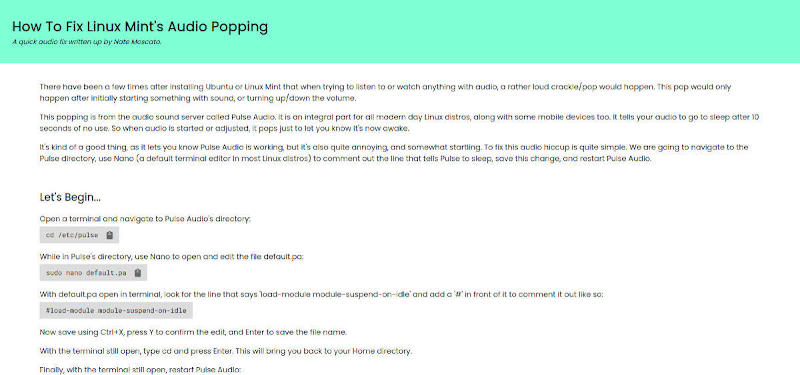
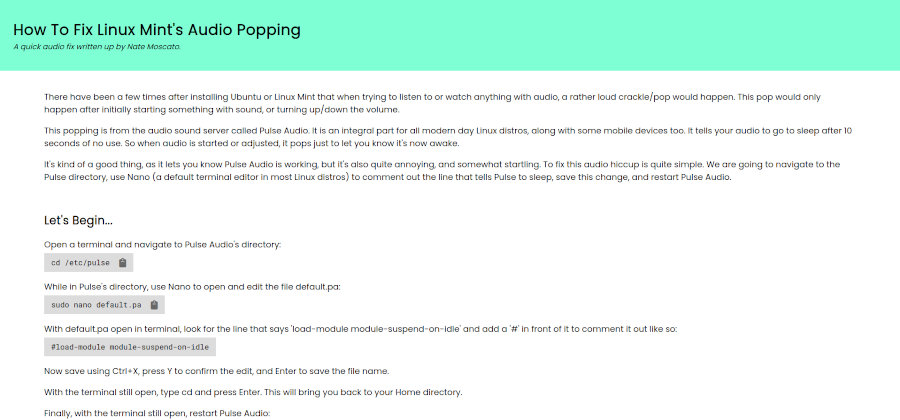
redid all project photos for desktop and mobile, altered glider too

diff --git a/index.html b/index.html
@@ -232,9 +232,9 @@
               </div>
               <div class="project-photo">
                 <img src="img/projects/yso.webp" alt="Your Social Offers Prototype" title="Your Social Offers"
-                  class="desktop-project-photo" width="750" height="352" />
-                <img src="img/projects/yso-mobile.jpg" alt="Your Social Offers Prototype" title="Your Social Offers"
-                  class="mobile-project-photo" width="340" height="450" />
+                  class="desktop-project-photo" width="900" height="420" />
+                <img src="img/projects/yso-mobile.webp" alt="Your Social Offers Prototype" title="Your Social Offers"
+                  class="mobile-project-photo" width="300" height="400" />
               </div>
             </a>
             <div class="project-photo-title yellow-text">
@@ -260,10 +260,10 @@
                 <i class="fa-solid fa-arrow-up-right-from-square" aria-hidden="true"></i>
               </div>
               <div class="project-photo">
-                <img src="img/projects/iss-location.jpg" alt="International Space Station Location" title="ISS Location"
-                  class="desktop-project-photo" width="800" height="375" />
+                <img src="img/projects/iss-location.webp" alt="International Space Station Location"
+                  title="ISS Location" class="desktop-project-photo" width="900" height="420" />
                 <img src="img/projects/iss-location-mobile.jpg" alt="International Space Station Location"
-                  title="ISS Location" class="mobile-project-photo" width="340" height="450" />
+                  title="ISS Location" class="mobile-project-photo" width="300" height="400" />
               </div>
             </a>
             <div class="project-photo-title yellow-text">ISS Location</div>
@@ -287,10 +287,10 @@
                 <i class="fa-solid fa-arrow-up-right-from-square" aria-hidden="true"></i>
               </div>
               <div class="project-photo">
-                <img src="img/projects/linux-audio-pop.jpg" alt="Linux Mint Audio Issue Walkthrough"
-                  title="Linux Audio Pop" class="desktop-project-photo" width="800" height="375" />
-                <img src="img/projects/linux-audio-pop-mobile.jpg" alt="Linux Mint Audio Issue Walkthrough"
-                  title="Linux Audio Pop" class="mobile-project-photo" width="340" height="450" />
+                <img src="img/projects/linux-audio-pop.webp" alt="Linux Mint Audio Issue Walkthrough"
+                  title="Linux Audio Pop" class="desktop-project-photo" width="900" height="420" />
+                <img src="img/projects/linux-audio-pop-mobile.webp" alt="Linux Mint Audio Issue Walkthrough"
+                  title="Linux Audio Pop" class="mobile-project-photo" width="300" height="400" />
               </div>
             </a>
             <div class="project-photo-title yellow-text">Linux Audio Pop</div>
@@ -333,10 +333,10 @@
                 <i class="fa-solid fa-arrow-up-right-from-square" aria-hidden="true"></i>
               </div>
               <div class="project-photo">
-                <img src="img/projects/shine.jpg" alt="Shine 'n Shimmer Project" title="Shine 'n Shimmer"
-                  class="desktop-project-photo" width="800" height="375" />
-                <img src="img/projects/shine-mobile.jpg" alt="Shine 'n Shimmer Project" title="Shine 'n Shimmer"
-                  class="mobile-project-photo" width="340" height="450" />
+                <img src="img/projects/shine.webp" alt="Shine 'n Shimmer Project" title="Shine 'n Shimmer"
+                  class="desktop-project-photo" width="900" height="420" />
+                <img src="img/projects/shine-mobile.webp" alt="Shine 'n Shimmer Project" title="Shine 'n Shimmer"
+                  class="mobile-project-photo" width="300" height="400" />
               </div>
             </a>
             <div class="project-photo-title yellow-text">
@@ -356,10 +356,10 @@
                 <i class="fa-solid fa-arrow-up-right-from-square" aria-hidden="true"></i>
               </div>
               <div class="project-photo">
-                <img src="img/projects/breathe.jpg" alt="Breathe/Meditation Project" title="Just Breathe"
-                  class="desktop-project-photo" width="800" height="375" />
-                <img src="img/projects/breathe-mobile.jpg" alt="Breathe/Meditation Project" title="Just Breathe"
-                  class="mobile-project-photo" width="340" height="450" />
+                <img src="img/projects/breathe.webp" alt="Breathe/Meditation Project" title="Just Breathe"
+                  class="desktop-project-photo" width="900" height="420" />
+                <img src="img/projects/breathe-mobile.webp" alt="Breathe/Meditation Project" title="Just Breathe"
+                  class="mobile-project-photo" width="300" height="400" />
               </div>
             </a>
             <div class="project-photo-title yellow-text">Just Breathe</div>
@@ -381,10 +381,10 @@
                 <i class="fa-solid fa-arrow-up-right-from-square" aria-hidden="true"></i>
               </div>
               <div class="project-photo">
-                <img src="img/projects/summit.jpg" alt="Summit Massage Project" title="Summit Massage"
-                  class="desktop-project-photo" width="800" height="375" />
-                <img src="img/projects/summit-mobile.jpg" alt="Summit Massage Project" title="Summit Massage"
-                  class="mobile-project-photo" width="340" height="450" />
+                <img src="img/projects/summit.webp" alt="Summit Massage Project" title="Summit Massage"
+                  class="desktop-project-photo" width="900" height="420" />
+                <img src="img/projects/summit-mobile.webp" alt="Summit Massage Project" title="Summit Massage"
+                  class="mobile-project-photo" width="300" height="400" />
               </div>
             </a>
             <div class="project-photo-title yellow-text">Summit Massage</div>
@@ -403,10 +403,10 @@
                 <i class="fa-solid fa-arrow-up-right-from-square" aria-hidden="true"></i>
               </div>
               <div class="project-photo">
-                <img src="img/projects/fur.jpg" alt="Fur Baby Project" title="Fur Baby Boutique"
-                  class="desktop-project-photo" width="800" height="375" />
-                <img src="img/projects/fur-mobile.jpg" alt="Fur Baby Project" title="Fur Baby Boutique"
-                  class="mobile-project-photo" width="340" height="450" />
+                <img src="img/projects/fur.webp" alt="Fur Baby Project" title="Fur Baby Boutique"
+                  class="desktop-project-photo" width="900" height="420" />
+                <img src="img/projects/fur-mobile.webp" alt="Fur Baby Project" title="Fur Baby Boutique"
+                  class="mobile-project-photo" width="300" height="400" />
               </div>
             </a>
             <div class="project-photo-title yellow-text">
@@ -429,10 +429,10 @@
                 <i class="fa-solid fa-arrow-up-right-from-square" aria-hidden="true"></i>
               </div>
               <div class="project-photo">
-                <img src="img/projects/speech.jpg" alt="Text to Speech Project" title="Text to Speech"
-                  class="desktop-project-photo" width="800" height="375" />
-                <img src="img/projects/speech-mobile.jpg" alt="Text to Speech Project" title="Text to Speech"
-                  class="mobile-project-photo" width="340" height="450" />
+                <img src="img/projects/speech.webp" alt="Text to Speech Project" title="Text to Speech"
+                  class="desktop-project-photo" width="900" height="420" />
+                <img src="img/projects/speech-mobile.webp" alt="Text to Speech Project" title="Text to Speech"
+                  class="mobile-project-photo" width="300" height="400" />
               </div>
             </a>
             <div class="project-photo-title yellow-text">Text to Speech</div>

diff --git a/styles/glider.css b/styles/glider.css
@@ -59,7 +59,7 @@
   height: auto;
   margin: 50px auto 15px auto;
   position: relative;
-  width: 100%;
+  width: 1000px;
   /* outline: solid 1px red; */
 }
 
@@ -322,7 +322,7 @@
   }
 
   .glider-container {
-    width: 90%;
+    width: 800px;
   }
 
   .project-photo {
@@ -337,6 +337,7 @@
 @media (max-width: 1000px) {
   .glider-container {
     margin: 40px auto 0 auto;
+    width: 90%;
   }
 
   .project-photo-caption {

diff --git a/scripts/glider.js b/scripts/glider.js
@@ -36,7 +36,7 @@ function loadGlider() {
           // screens greater than > 1300px
           breakpoint: 1300,
           settings: {
-            slidesToShow: 2,
+            slidesToShow: 1,
             slidesToScroll: 1,
             duration: 1,
           },
